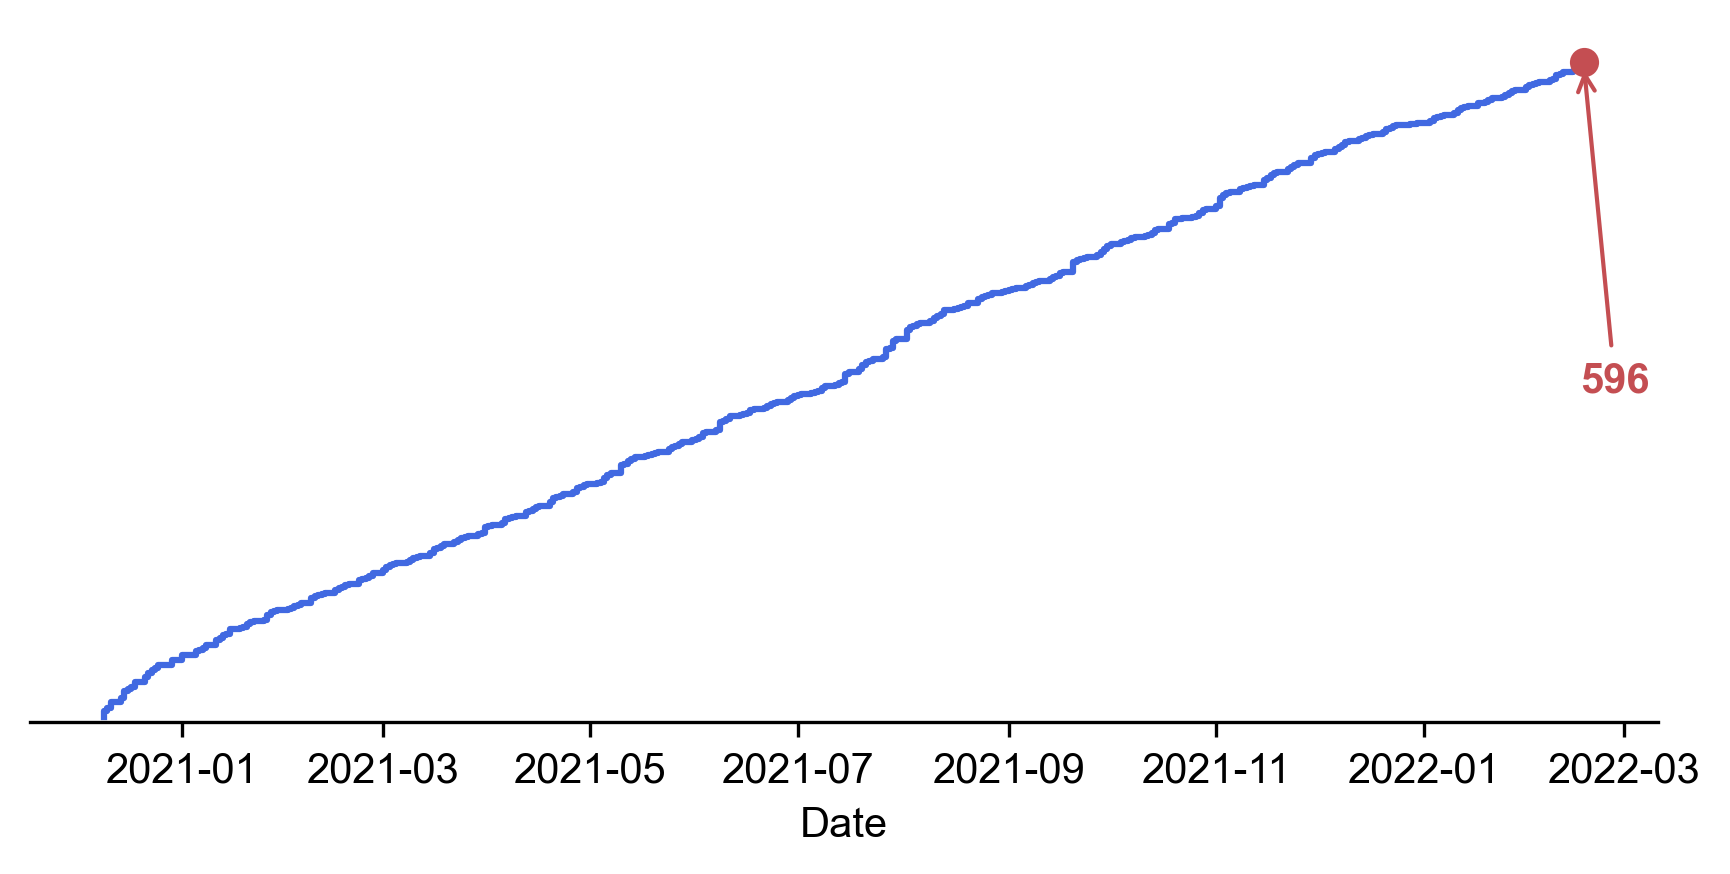
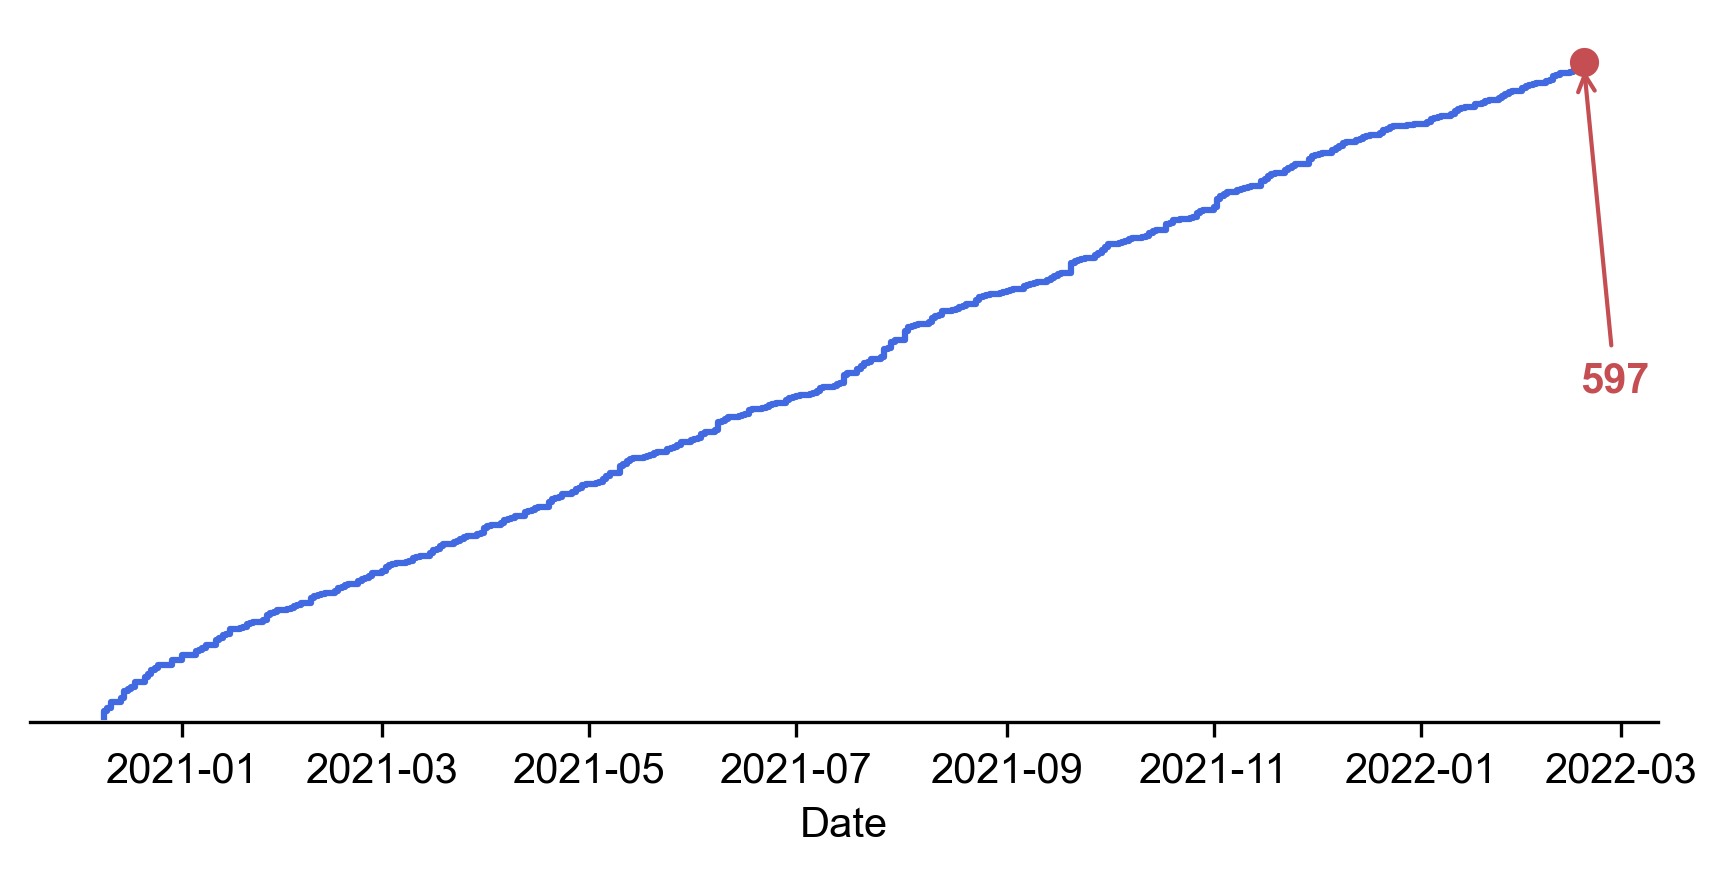
2022-02-18

diff --git a/2022/02/AstroPH-2022-02.md b/2022/02/AstroPH-2022-02.md
@@ -214,3 +214,13 @@
 
 ## 2022-02-18
 
+1. [The LOFAR view of giant, early-type galaxies: radio emission from active nuclei and star formation](https://arxiv.org/abs/2202.08593)
+
+   > Extragalactic Galaxy, LOFAR, Radio Luminosity
+
+   研究LOFAR探测到的附近宇宙中高亮度的早型星系`ETG`的特性和射电辐射来源。188个巨型`ETG`有LOFAR的图像，其中146个的亮度高于典型亮度$10^{21}\ \rm W/Hz$，其中最亮的是$10^{26}\ \rm W/Hz$。大约三分之二的`gETG`是无法解析的，也就是说大小$<4\ \rm kpc$，这意味着附近宇宙中致密射电源的普遍性。
+
+   <img src="Figures/image-20220218225556184.png" alt="image-20220218225556184" style="zoom:50%;" />
+
+## 2022-02-21
+
